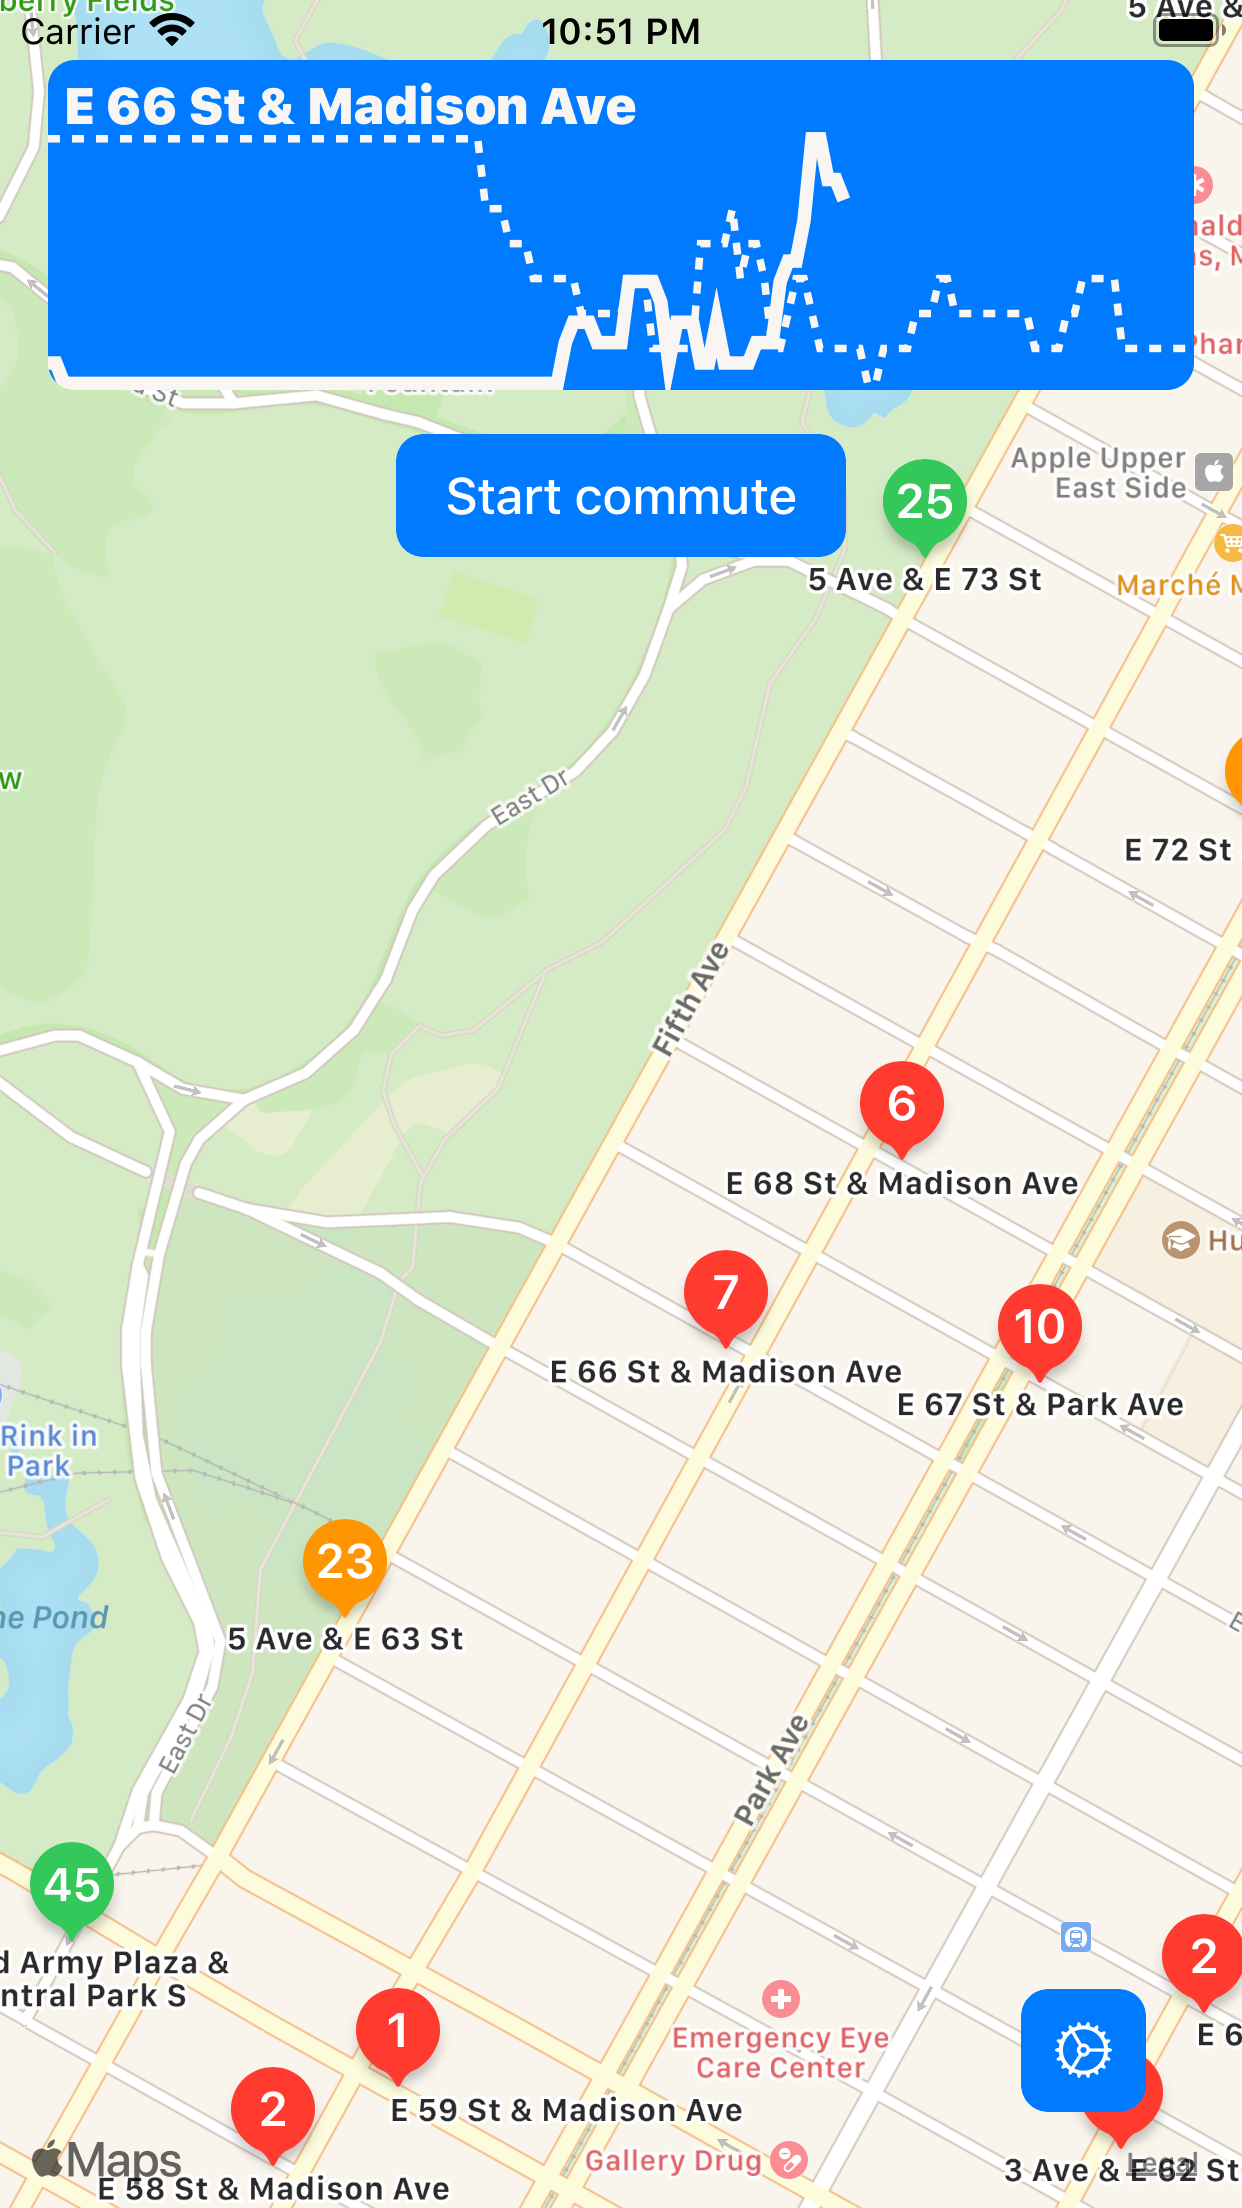
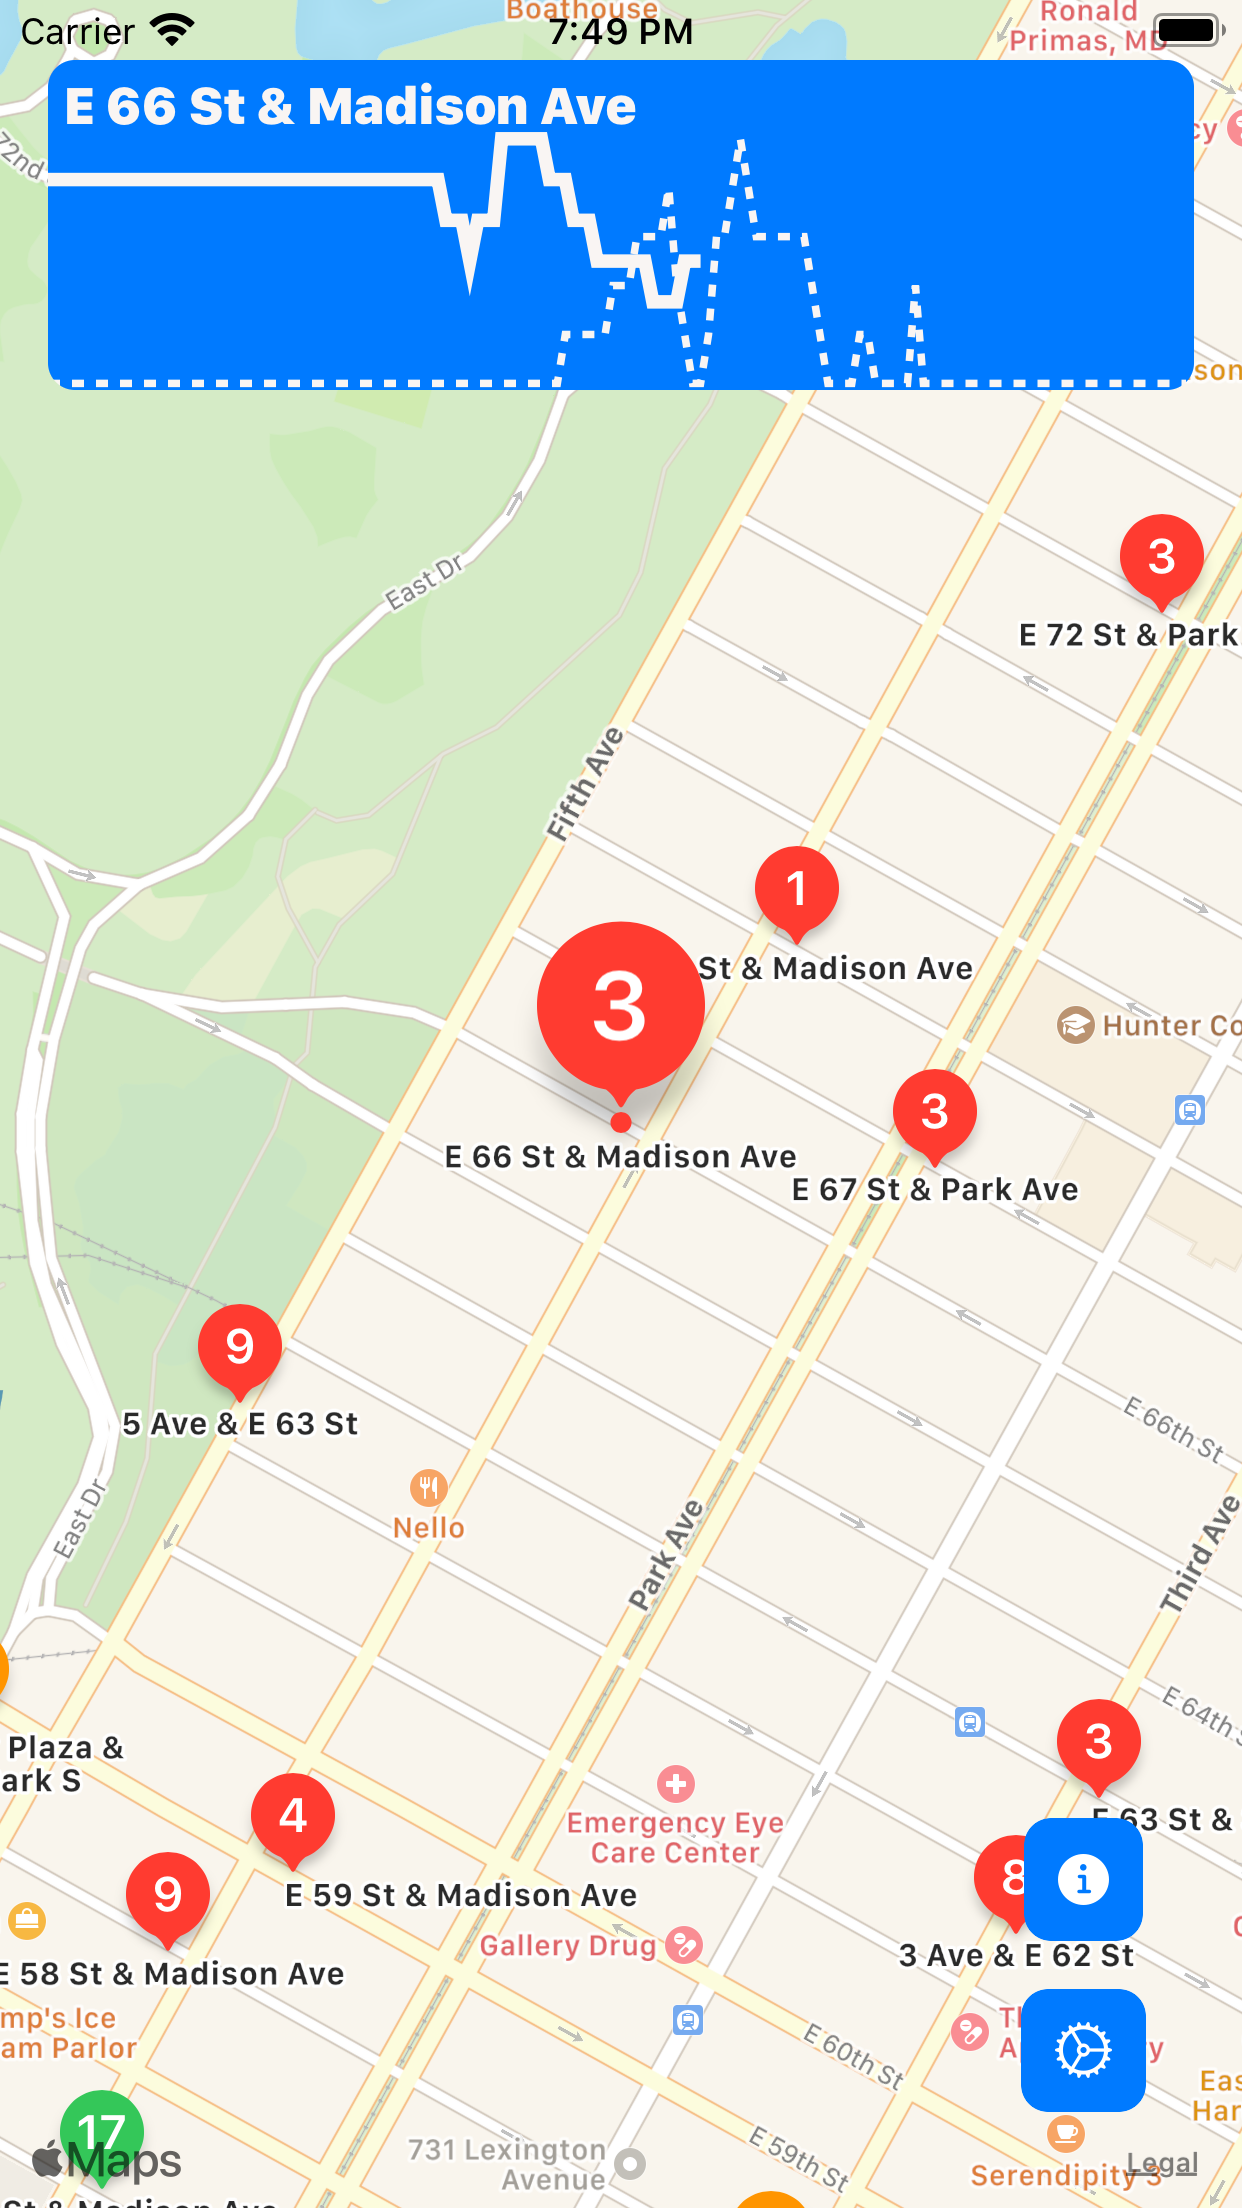
Version 2020.5.2 (43)

diff --git a/NeuralBikes/Home/HomeViewController.swift b/NeuralBikes/Home/HomeViewController.swift
@@ -120,13 +120,24 @@ class HomeViewController: UIViewController {
     }()
 
     // MARK: Renting
-
+    
+    private lazy var bottomButtonsStackView: UIStackView = {
+        let stackView = UIStackView(arrangedSubviews: [rentButton, startRouteButton, settingsButton])
+        stackView.alignment = UIStackView.Alignment.center
+        stackView.axis = NSLayoutConstraint.Axis.vertical
+        stackView.distribution  = UIStackView.Distribution.equalSpacing
+        stackView.spacing = Constants.spacing
+        stackView.translatesAutoresizingMaskIntoConstraints = false
+        
+        return stackView
+    }()
+    
     private var startRouteButton: UIButton = {
 
         let button = NBButton()
         button.applyProtocolUIAppearance()
         button.accessibilityIdentifier = "START_ROUTE"
-        button.setTitle("START_ROUTE".localize(file: "Home"), for: .normal)
+        button.setImage(UIImage(systemName: "info.circle.fill"), for: .normal)
         button.isHidden = true
 
         return button
@@ -181,8 +192,7 @@ class HomeViewController: UIViewController {
 
         view.addSubview(statisticsAndGraphViewStackView)
         view.bringSubviewToFront(statisticsAndGraphViewStackView)
-        view.addSubview(settingsButton)
-        view.addSubview(rentButton)
+        view.addSubview(bottomButtonsStackView)
 
         let tap = UITapGestureRecognizer(target: self, action: #selector(handleTap(_:)))
         graphView.addGestureRecognizer(tap)
@@ -195,14 +205,14 @@ class HomeViewController: UIViewController {
 
         // Align to the bottom right
         NSLayoutConstraint.activate([
-            settingsButton.bottomAnchor.constraint(equalTo: self.view.safeAreaLayoutGuide.bottomAnchor, constant: -2 * Constants.spacing),
-            settingsButton.trailingAnchor.constraint(equalTo: self.view.safeAreaLayoutGuide.trailingAnchor, constant: -2 * Constants.spacing)
+            bottomButtonsStackView.bottomAnchor.constraint(equalTo: self.view.safeAreaLayoutGuide.bottomAnchor, constant: -2 * Constants.spacing),
+            bottomButtonsStackView.trailingAnchor.constraint(equalTo: self.view.safeAreaLayoutGuide.trailingAnchor, constant: -2 * Constants.spacing)
         ])
         
         // MARK: Active Rentals
         NSLayoutConstraint.activate([
             activeRentalScrollView.leadingAnchor.constraint(equalTo: self.view.safeAreaLayoutGuide.leadingAnchor, constant: 16.0),
-            activeRentalScrollView.trailingAnchor.constraint(equalTo: settingsButton.leadingAnchor, constant: -16.0),
+            activeRentalScrollView.trailingAnchor.constraint(equalTo: bottomButtonsStackView.leadingAnchor, constant: -16.0),
             activeRentalScrollView.heightAnchor.constraint(equalToConstant: 100.0),
             activeRentalScrollView.bottomAnchor.constraint(equalTo: self.view.safeAreaLayoutGuide.bottomAnchor, constant: 16.0)
         ])
@@ -218,17 +228,6 @@ class HomeViewController: UIViewController {
             activeRentalStackView.bottomAnchor.constraint(equalTo: activeRentalScrollView.bottomAnchor, constant: 0)
         ])
         
-
-        // MARK: Rent button
-        NSLayoutConstraint.activate([
-            rentButton.bottomAnchor.constraint(equalTo: settingsButton.topAnchor, constant: -2 * Constants.spacing),
-            rentButton.trailingAnchor.constraint(equalTo: self.view.safeAreaLayoutGuide.trailingAnchor, constant: -2 * Constants.spacing)
-        ])
-        
-        NSLayoutConstraint.activate([
-            startRouteButton.widthAnchor.constraint(equalToConstant: startRouteButton.titleLabel!.text!.width(withConstrainedHeight: startRouteButton.titleLabel!.frame.height, font: UIFont.systemFont(ofSize: UIFont.buttonFontSize, weight: .bold)) + 20.0)
-        ])
-
         // Pin the borders of the graph to the container UIStackView
         NSLayoutConstraint.activate([
             graphView.leadingAnchor.constraint(equalTo: statisticsAndGraphViewStackView.leadingAnchor),

diff --git a/NeuralBikesUITests/NeuralBikesUITests.swift b/NeuralBikesUITests/NeuralBikesUITests.swift
@@ -7,6 +7,7 @@
 //
 
 import XCTest
+import Foundation
 
 class BicisUITests: XCTestCase {
 
@@ -19,6 +20,7 @@ class BicisUITests: XCTestCase {
 
     override func tearDown() {
         // Put teardown code here. This method is called after the invocation of each test method in the class.
+        super.tearDown()
     }
 
     func testExample() {
@@ -29,7 +31,7 @@ class BicisUITests: XCTestCase {
         setupSnapshot(app)
         app.launch()
 
-        sleep(8) // Wait for the map to load
+        sleep(4) // Wait for the map to load
 
         snapshot("00-Home")
 

diff --git a/NeuralBikes/Cities.swift b/NeuralBikes/Cities.swift
@@ -28,7 +28,7 @@ var availableCities: [String: City] = [
                    formalName: "Bilbao",
                    latitude: 43.263459,
                    longitude: -2.937053,
-                   apiUrl: "https://nextbike.net/maps/nextbike-official.json?city=532", allowsLogIn: true),
+                   apiUrl: "https://nextbike.net/maps/nextbike-official.json?city=532", allowsLogIn: false),
     "Madrid": City(apiName: "madrid",
                    formalName: "Madrid",
                    latitude: 40.416775,
